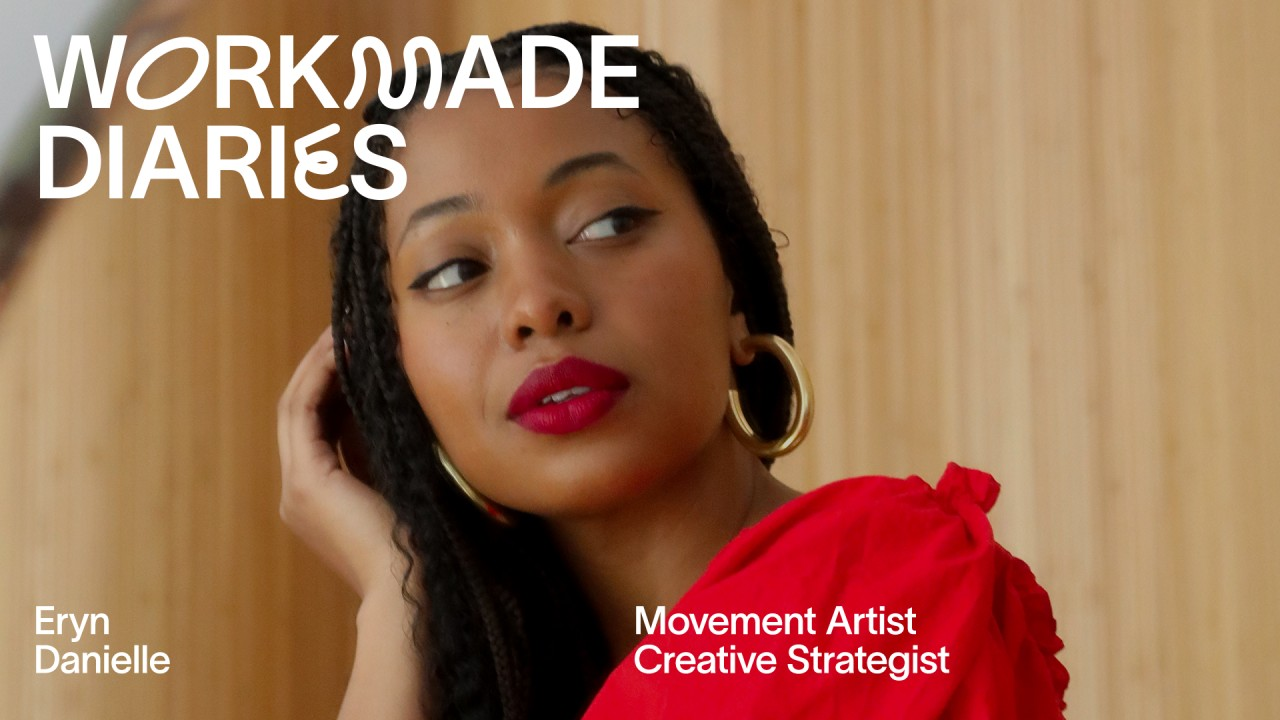
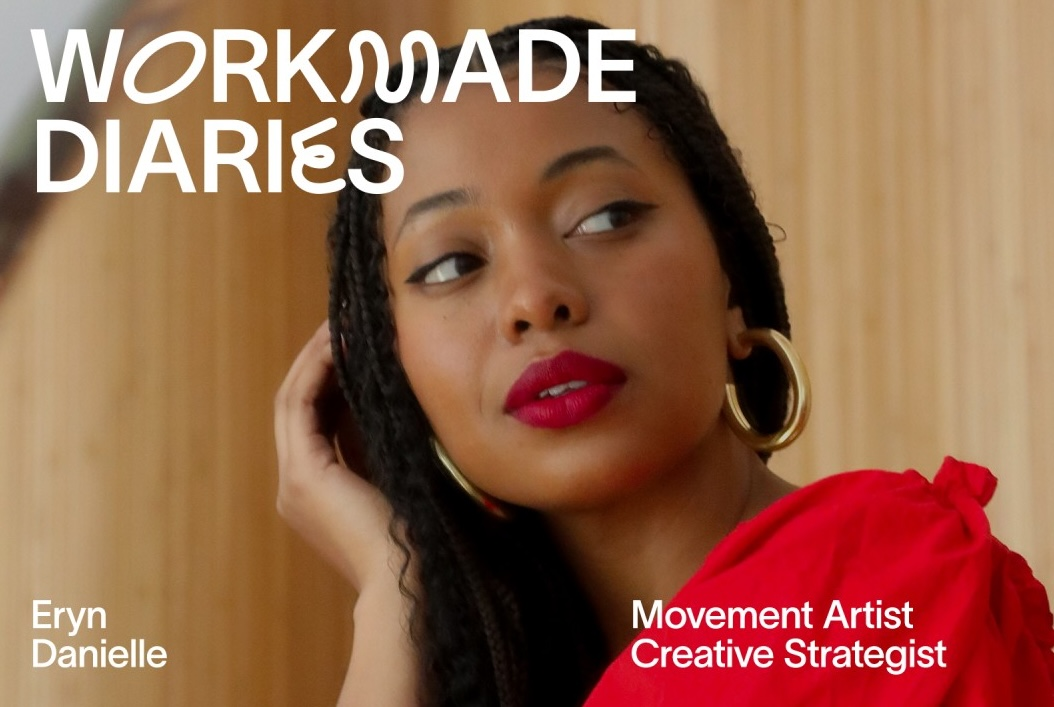
Add files via upload

diff --git a/index.html b/index.html
@@ -229,8 +229,9 @@ button.pcard:hover .cover{border-color:var(--red)}
 video.auto{background:var(--wash)}
 .cover,.headshot,.pscreen{position:relative}
 .media{position:relative;background:var(--wash);border-radius:var(--r-md);overflow:hidden;display:flex;align-items:center;justify-content:center}
-.media.gal{cursor:pointer;border:1.3px solid transparent;transition:border-color .18s}
-.media.gal:hover{border-color:var(--red)}
+.media.gal,.media.ext{cursor:pointer;border:1.3px solid transparent;transition:border-color .18s}
+.media.ext{display:block;text-decoration:none}
+.media.gal:hover,.media.ext:hover{border-color:var(--red)}
 .media img,.media video,.media iframe{width:100%;height:100%;object-fit:cover;border:0}
 .ph{border:1.5px dashed var(--line);border-radius:12px;color:var(--soft);font-size:.74rem;letter-spacing:.08em;text-transform:uppercase;font-weight:700;padding:20px;text-align:center;margin:20px;width:calc(100% - 40px)}
 .tapnote{font-size:.7rem;color:var(--soft);text-align:center;letter-spacing:.04em}
@@ -823,12 +824,12 @@ a.ccard b{display:block;margin:6px 0 1px;font-size:.94rem}
         </div>
         <div class="mediarow two">
           <div class="cell">
-            <div class="media gal" data-images="press-salon-01.jpg|press-salon-02.jpg" data-caps="Salon, July 2020|Salon, July 2020"><img class="auto" src="press-salon-01.jpg" onerror="this.remove()" alt=""><div class="ph">Salon feature</div></div>
-            <p class="tapnote">Click to read, right here.</p>
+            <a class="media ext" href="REPLACE-SALON-ARTICLE-URL" target="_blank" rel="noopener"><img class="auto" src="press-salon-01.jpg" onerror="this.remove()" alt=""><div class="ph">Salon feature</div></a>
+            <p class="tapnote">Click to read on Salon.</p>
           </div>
           <div class="cell">
-            <div class="media gal" data-images="press-levis-01.jpg|press-levis-02.jpg" data-caps="Levi's Off the Cuff, August 2020|Levi's Off the Cuff, August 2020"><img class="auto" src="press-levis-01.jpg" onerror="this.remove()" alt=""><div class="ph">Levi's Off the Cuff feature</div></div>
-            <p class="tapnote">Click to read, right here.</p>
+            <a class="media ext" href="REPLACE-LEVIS-ARTICLE-URL" target="_blank" rel="noopener"><img class="auto" src="press-levis-01.jpg" onerror="this.remove()" alt=""><div class="ph">Levi's Off the Cuff feature</div></a>
+            <p class="tapnote">Click to read on Levi's Off the Cuff.</p>
           </div>
         </div>
       </div>
